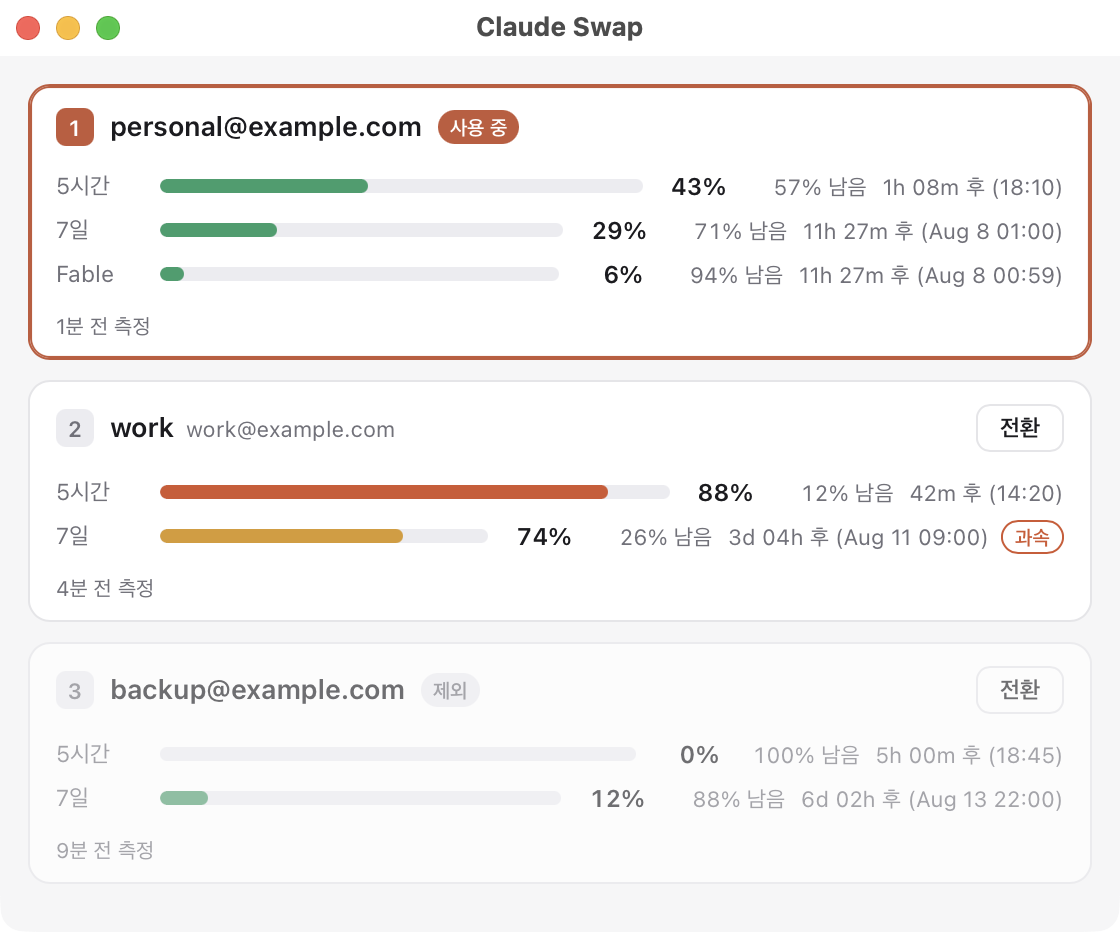
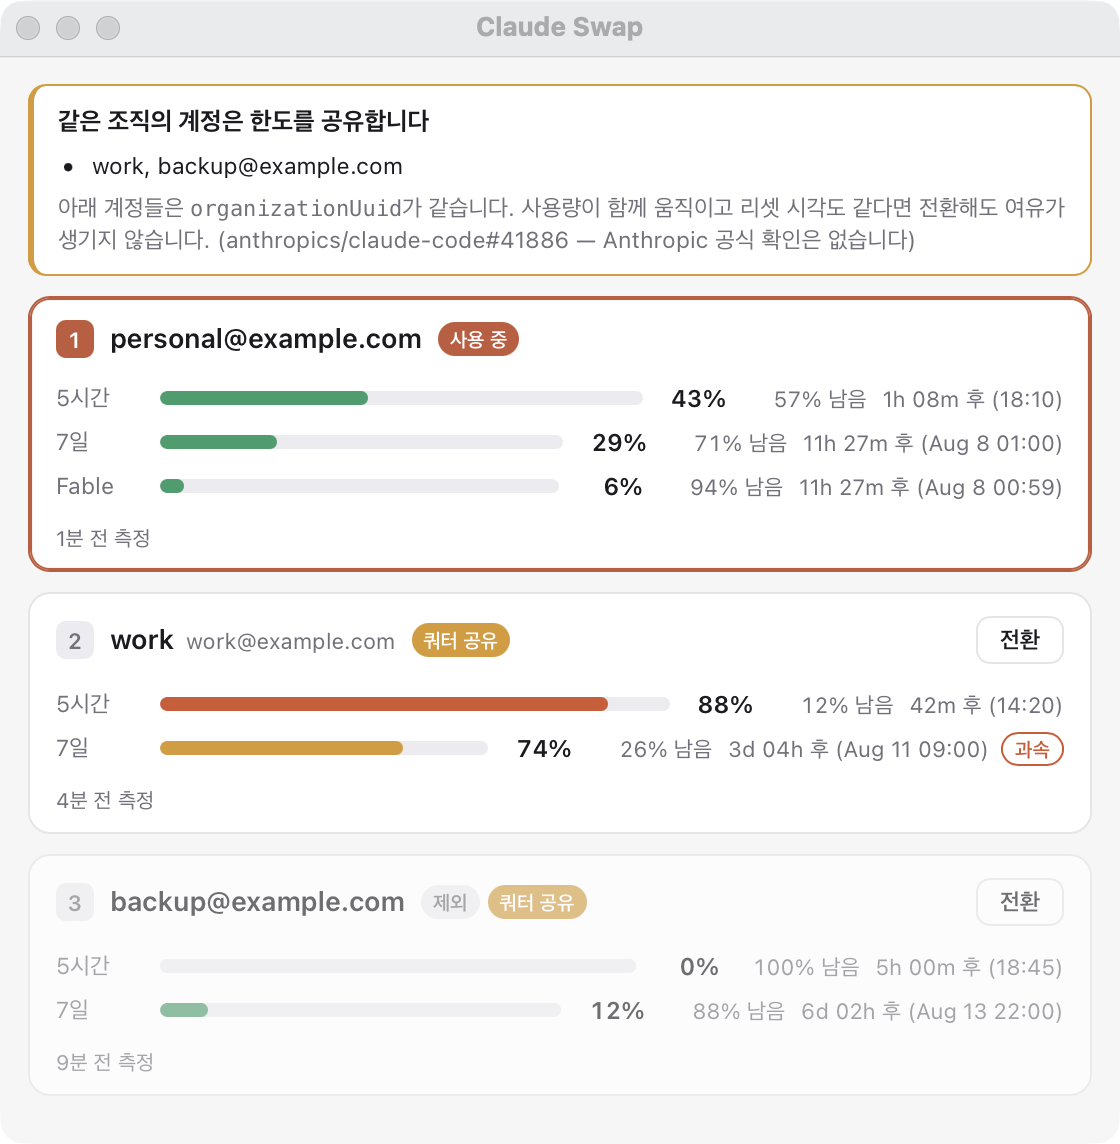
Warn when two accounts share one organization's quota
Rate limits appear to pool per organizationUuid rather than per account:
accounts in the same organization report identical utilisation and identical
reset times, while accounts in different organizations are independent
(anthropics/claude-code#41886, with #54464 and #34888 as the same thing seen
from the confusing end). None of it was ever confirmed — all three issues were
auto-closed as stale — so this warns rather than asserts.

A dashboard is exactly where that would fool you: two names, two cards, two
sets of bars that happen to move together, and nothing in the numbers to say
switching between them buys you nothing. cswap already reports
organizationUuid, so grouping on it is free.

Adds a "쿼터 공유" chip to every account in a shared organization and a notice
listing the groups, and puts a shared pair in the demo fixture so the state is
visible without owning two such accounts.

diff --git a/src/cswap_dashboard/render.py b/src/cswap_dashboard/render.py
@@ -63,7 +63,51 @@ def _window_row(label: str, window: dict | None, *, stale: bool = False) -> str:
 </div>"""
 
 
-def _account_card(acc: dict) -> str:
+def shared_quota_groups(accounts: list) -> dict[str, list]:
+    """Map each ``organizationUuid`` held by more than one account to its members.
+
+    Rate limits appear to pool per organization rather than per account: users
+    report that accounts sharing an ``organizationUuid`` show identical
+    utilisation *and* identical reset times, while accounts in different
+    organizations are fully independent (anthropics/claude-code#41886, with
+    #54464 and #34888 as the confused-looking symptoms). Anthropic never
+    confirmed it — every one of those issues was auto-closed as stale — so this
+    is a warning, not a verdict.
+
+    It matters here because a dashboard is exactly where the illusion would
+    form: two cards, two names, two sets of bars that happen to move together.
+    Switching between such accounts buys nothing, and the numbers give no hint
+    unless you are told where to look.
+    """
+    groups: dict[str, list] = {}
+    for acc in accounts:
+        if not isinstance(acc, dict):
+            continue
+        uuid = acc.get("organizationUuid")
+        if isinstance(uuid, str) and uuid:
+            groups.setdefault(uuid, []).append(acc)
+    return {uuid: members for uuid, members in groups.items() if len(members) > 1}
+
+
+def _shared_notice(groups: dict[str, list]) -> str:
+    if not groups:
+        return ""
+    lines = []
+    for members in groups.values():
+        names = ", ".join(
+            escape(str(m.get("alias") or m.get("email") or m.get("number"))) for m in members
+        )
+        lines.append(f"<li>{names}</li>")
+    return (
+        '<section class="notice"><b>같은 조직의 계정은 한도를 공유합니다</b>'
+        "<ul>" + "".join(lines) + "</ul>"
+        "<span>아래 계정들은 <code>organizationUuid</code>가 같습니다. 사용량이 함께 "
+        "움직이고 리셋 시각도 같다면 전환해도 여유가 생기지 않습니다. "
+        "(anthropics/claude-code#41886 — Anthropic 공식 확인은 없습니다)</span></section>"
+    )
+
+
+def _account_card(acc: dict, shared_with: list | None = None) -> str:
     number = acc.get("number")
     email = str(acc.get("email") or "?")
     alias = acc.get("alias")
@@ -89,6 +133,12 @@ def _account_card(acc: dict) -> str:
         chips.append(f'<span class="chip bad">{escape(status)}</span>')
     if stale:
         chips.append('<span class="chip stale-chip">최근 값</span>')
+    if shared_with:
+        peers = ", ".join(str(p.get("email") or p.get("number")) for p in shared_with)
+        chips.append(
+            f'<span class="chip shared" title="{escape(peers)} 와(과) 같은 조직 — '
+            '한도를 함께 씁니다">쿼터 공유</span>'
+        )
 
     rows = [
         _window_row("5시간", (usage or {}).get("fiveHour"), stale=stale),
@@ -143,7 +193,15 @@ def render_body(payload: dict | None, error: str | None = None) -> str:
                 "<pre>Claude Code에 로그인한 뒤 터미널에서:\n\n    cswap add</pre></div>"
             )
         else:
-            body = "".join(_account_card(a) for a in accounts if isinstance(a, dict))
+            groups = shared_quota_groups(accounts)
+            cards = []
+            for acc in accounts:
+                if not isinstance(acc, dict):
+                    continue
+                members = groups.get(acc.get("organizationUuid") or "", [])
+                peers = [m for m in members if m.get("number") != acc.get("number")]
+                cards.append(_account_card(acc, peers))
+            body = _shared_notice(groups) + "".join(cards)
     return body
 
 
@@ -164,6 +222,9 @@ def content_height(payload: dict | None, error: str | None = None) -> int:
     if error or not accounts:
         return 240
     total = _CHROME
+    groups = shared_quota_groups(accounts)
+    if groups:
+        total += 78 + 16 * sum(len(m) for m in groups.values())
     for acc in accounts:
         if not isinstance(acc, dict):
             continue
@@ -220,6 +281,15 @@ header{display:flex; align-items:center; gap:8px; margin-bottom:9px}
 .chip.active{background:var(--accent); color:#fff}
 .chip.bad{background:var(--spent); color:#fff}
 .chip.pace{background:transparent; color:var(--danger); border:1px solid currentColor; margin-left:6px}
+.chip.shared{background:var(--warn); color:#fff}
+.notice{
+  background:var(--card); border:1px solid var(--warn); border-left-width:3px;
+  border-radius:9px; padding:9px 12px; margin-bottom:10px; font-size:11.5px;
+}
+.notice b{font-size:12.5px}
+.notice ul{margin:5px 0; padding-left:17px}
+.notice span{color:var(--muted); display:block}
+.notice code{font-size:11px}
 button.switch{
   margin-left:auto; flex:none; font:inherit; font-size:11.5px; font-weight:600;
   padding:3px 11px; border-radius:7px; cursor:pointer;

diff --git a/tests/test_render.py b/tests/test_render.py
@@ -90,3 +90,44 @@ def test_content_height_grows_with_accounts_and_stays_bounded():
     assert 200 <= one < two <= 900
     assert content_height(payload(*[{**ACCOUNT, "number": n} for n in range(20)])) == 900
     assert content_height(None, "boom") == 240
+
+
+ORG_A = "34d83544-a7e0-0000-0000-000000000000"
+ORG_B = "1b8fb384-9be0-0000-0000-000000000000"
+
+
+def acct(number, org, **kw):
+    return {**ACCOUNT, "number": number, "email": f"a{number}@example.com",
+            "active": number == 1, "organizationUuid": org, **kw}
+
+
+def test_accounts_in_one_org_are_flagged_as_sharing_quota():
+    html = render_body(payload(acct(1, ORG_A), acct(2, ORG_A), acct(3, ORG_B)))
+    assert html.count("쿼터 공유") == 2          # only the two in ORG_A
+    assert "같은 조직의 계정은 한도를 공유합니다" in html
+    assert "a3@example.com 와(과)" not in html   # the lone account is not implicated
+
+
+def test_no_notice_when_every_account_is_its_own_org():
+    html = render_body(payload(acct(1, ORG_A), acct(2, ORG_B)))
+    assert "쿼터 공유" not in html
+    assert "같은 조직의 계정은" not in html
+
+
+def test_accounts_without_an_org_uuid_are_never_grouped():
+    html = render_body(payload(acct(1, ""), {**ACCOUNT, "number": 2, "active": False}))
+    assert "쿼터 공유" not in html
+
+
+def test_shared_quota_groups_returns_only_real_groups():
+    from cswap_dashboard.render import shared_quota_groups
+
+    groups = shared_quota_groups([acct(1, ORG_A), acct(2, ORG_A), acct(3, ORG_B), "junk"])
+    assert list(groups) == [ORG_A]
+    assert [a["number"] for a in groups[ORG_A]] == [1, 2]
+
+
+def test_the_notice_costs_height():
+    plain = content_height(payload(acct(1, ORG_A), acct(2, ORG_B)))
+    shared = content_height(payload(acct(1, ORG_A), acct(2, ORG_A)))
+    assert shared > plain

diff --git a/src/cswap_dashboard/cswap.py b/src/cswap_dashboard/cswap.py
@@ -92,6 +92,7 @@ DEMO = {
     "accounts": [
         {
             "number": 1, "email": "personal@example.com", "active": True, "usageStatus": "ok",
+            "organizationUuid": "11111111-1111-1111-1111-111111111111",
             "usage": {
                 "fiveHour": {"pct": 43.0, "countdown": "1h 08m", "clock": "18:10"},
                 "sevenDay": {"pct": 29.0, "countdown": "11h 27m", "clock": "Aug 8 01:00"},
@@ -102,6 +103,7 @@ DEMO = {
         {
             "number": 2, "alias": "work", "email": "work@example.com",
             "active": False, "usageStatus": "ok",
+            "organizationUuid": "22222222-2222-2222-2222-222222222222",
             "usage": {
                 "fiveHour": {"pct": 88.0, "countdown": "42m", "clock": "14:20"},
                 "sevenDay": {"pct": 74.0, "countdown": "3d 04h", "clock": "Aug 11 09:00",
@@ -110,8 +112,10 @@ DEMO = {
             "usageAgeSeconds": 260.0,
         },
         {
+            # Same org as #2 on purpose: this is what pooled quota looks like.
             "number": 3, "email": "backup@example.com", "active": False,
             "disabled": True, "usageStatus": "ok",
+            "organizationUuid": "22222222-2222-2222-2222-222222222222",
             "usage": {
                 "fiveHour": {"pct": 0.0, "countdown": "5h 00m", "clock": "18:45"},
                 "sevenDay": {"pct": 12.0, "countdown": "6d 02h", "clock": "Aug 13 22:00"},

diff --git a/README.md b/README.md
@@ -86,6 +86,38 @@ The active account is outlined. Any other account gets a **전환** button; it
 runs `cswap switch N` and repaints. Accounts held out of rotation with
 `cswap disable` are dimmed and marked **제외**.
 
+## Accounts that share one quota
+
+If two accounts show a **쿼터 공유** chip, they have the same
+`organizationUuid` — and rate limits appear to pool per organization rather
+than per account. Users report that accounts sharing an organization show
+identical utilisation *and* identical reset times, while accounts in different
+organizations are fully independent
+([anthropics/claude-code#41886][41886]; [#54464][54464] and [#34888][34888] are
+the same thing seen from the confusing end). Anthropic never confirmed any of
+it — all three issues were auto-closed as stale — so the dashboard warns rather
+than asserts.
+
+It is worth warning about precisely because a dashboard is where the illusion
+would form: two names, two cards, two sets of bars that happen to move
+together. Switching between such accounts buys you nothing, and nothing in the
+numbers says so unless you know where to look.
+
+Check it yourself:
+
+```bash
+cswap list --json | python3 -c "import json,sys; [print(a['number'], a.get('organizationUuid'), a['email']) for a in json.load(sys.stdin)['accounts']]"
+```
+
+Related: the VS Code extension ignores `CLAUDE_CONFIG_DIR` ([#34888][34888]),
+so per-workspace account separation does not work there even though the
+terminal CLI honours it. For genuinely parallel accounts use `cswap run`, which
+sets `CLAUDE_CONFIG_DIR` for one terminal.
+
+[41886]: https://github.com/anthropics/claude-code/issues/41886
+[54464]: https://github.com/anthropics/claude-code/issues/54464
+[34888]: https://github.com/anthropics/claude-code/issues/34888
+
 ## Adding an account
 
 Menu bar **⇄** → **계정 추가…**. No terminal, no copied commands.
